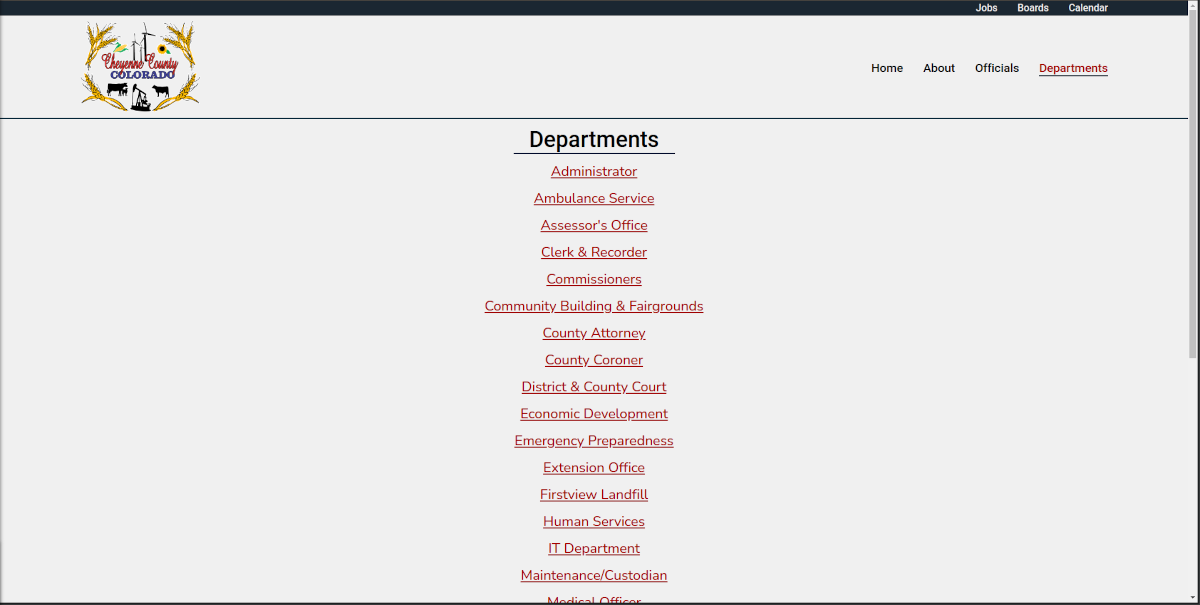
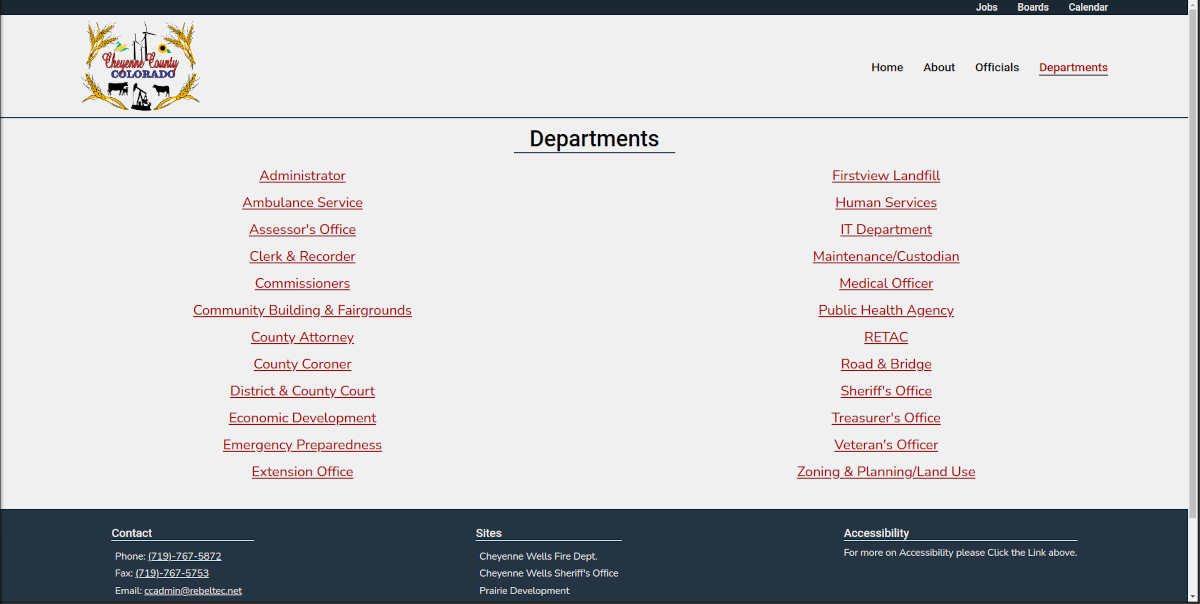
fix: departments layout and departments page screenshot

diff --git a/cheyenne_county_website/css/base.css b/cheyenne_county_website/css/base.css
@@ -1,1 +1,1 @@
-@font-face{font-family:Roboto;font-style:normal;font-weight:100;src:url(/assets/fonts/roboto-v30-latin-100.woff2) format('woff2')}@font-face{font-family:Roboto;font-style:italic;font-weight:100;src:url(/assets/fonts/roboto-v30-latin-100italic.woff2) format('woff2')}@font-face{font-family:Roboto;font-style:normal;font-weight:300;src:url(/assets/fonts/roboto-v30-latin-300.woff2) format('woff2')}@font-face{font-family:Roboto;font-style:italic;font-weight:300;src:url(/assets/fonts/roboto-v30-latin-300italic.woff2) format('woff2')}@font-face{font-family:Roboto;font-style:normal;font-weight:400;src:url(/assets/fonts/roboto-v30-latin-regular.woff2) format('woff2')}@font-face{font-family:Roboto;font-style:italic;font-weight:400;src:url(/assets/fonts/roboto-v30-latin-italic.woff2) format('woff2')}@font-face{font-family:Roboto;font-style:normal;font-weight:500;src:url(/assets/fonts/roboto-v30-latin-500.woff2) format('woff2')}@font-face{font-family:Roboto;font-style:italic;font-weight:500;src:url(/assets/fonts/roboto-v30-latin-500italic.woff2) format('woff2')}@font-face{font-family:Roboto;font-style:normal;font-weight:700;src:url(/assets/fonts/roboto-v30-latin-700.woff2) format('woff2')}@font-face{font-family:Roboto;font-style:italic;font-weight:700;src:url(/assets/fonts/roboto-v30-latin-700italic.woff2) format('woff2')}@font-face{font-family:Roboto;font-style:normal;font-weight:900;src:url(/assets/fonts/roboto-v30-latin-900.woff2) format('woff2')}@font-face{font-family:Roboto;font-style:italic;font-weight:900;src:url(/assets/fonts/roboto-v30-latin-900italic.woff2) format('woff2')}@font-face{font-family:Nunito;font-style:normal;font-weight:200;src:url(/assets/fonts/nunito-v26-latin-200.woff2) format('woff2')}@font-face{font-family:Nunito;font-style:italic;font-weight:200;src:url(/assets/fonts/nunito-v26-latin-200italic.woff2) format('woff2')}@font-face{font-family:Nunito;font-style:normal;font-weight:300;src:url(/assets/fonts/nunito-v26-latin-300.woff2) format('woff2')}@font-face{font-family:Nunito;font-style:italic;font-weight:300;src:url(/assets/fonts/nunito-v26-latin-300italic.woff2) format('woff2')}@font-face{font-family:Nunito;font-style:normal;font-weight:400;src:url(/assets/fonts/nunito-v26-latin-regular.woff2) format('woff2')}@font-face{font-family:Nunito;font-style:italic;font-weight:400;src:url(/assets/fonts/nunito-v26-latin-italic.woff2) format('woff2')}@font-face{font-family:Nunito;font-style:normal;font-weight:500;src:url(/assets/fonts/nunito-v26-latin-500.woff2) format('woff2')}@font-face{font-family:Nunito;font-style:italic;font-weight:500;src:url(/assets/fonts/nunito-v26-latin-500italic.woff2) format('woff2')}@font-face{font-family:Nunito;font-style:normal;font-weight:600;src:url(/assets/fonts/nunito-v26-latin-600.woff2) format('woff2')}@font-face{font-family:Nunito;font-style:italic;font-weight:600;src:url(/assets/fonts/nunito-v26-latin-600italic.woff2) format('woff2')}@font-face{font-family:Nunito;font-style:normal;font-weight:700;src:url(/assets/fonts/nunito-v26-latin-700.woff2) format('woff2')}@font-face{font-family:Nunito;font-style:italic;font-weight:700;src:url(/assets/fonts/nunito-v26-latin-700italic.woff2) format('woff2')}@font-face{font-family:Nunito;font-style:normal;font-weight:800;src:url(/assets/fonts/nunito-v26-latin-800.woff2) format('woff2')}@font-face{font-family:Nunito;font-style:italic;font-weight:800;src:url(/assets/fonts/nunito-v26-latin-800italic.woff2) format('woff2')}@font-face{font-family:Nunito;font-style:normal;font-weight:900;src:url(/assets/fonts/nunito-v26-latin-900.woff2) format('woff2')}@font-face{font-family:Nunito;font-style:italic;font-weight:900;src:url(/assets/fonts/nunito-v26-latin-900italic.woff2) format('woff2')}:root{--background-color:hsl(0 0% 94%);--border-color:hsl(209 30% 20%);--border-alt-color:hsl(209 30% 15%);--link-color:hsl(0 100% 32%);--link-hover-color:hsl(0 100% 22%);--text-color:hsl(210 29% 3%)}*{box-sizing:border-box;font-family:Nunito,sans-serif;letter-spacing:-.01rem;margin:0;padding:0;scroll-behavior:smooth;text-wrap:balance}li{list-style:none}body{background-color:var(--background-color)}body a{color:var(--link-color);transition:color .1s ease-in-out}body a:focus,body a:hover{color:var(--link-hover-color)}.border{border:1px solid var(--border-color)}h1,h2,h3,h4,h5,h6{font-family:Roboto,sans-serif;font-weight:500}h1:after{border:1px solid var(--border-color);content:"";display:block;margin:auto;margin-bottom:.5rem}h2:after,h2:before{border-top:2px solid var(--border-color);content:"";display:inline-block;margin:0 1rem;width:1.25rem}h2:after,h2:before{transform:translateY(-.5rem)}.top-nav{background-color:var(--border-alt-color);display:flex;gap:2rem;justify-content:flex-end;padding:.15rem 8rem .15rem;user-select:none}.top-nav a{color:var(--background-color);font-family:Roboto,sans-serif;font-weight:500;text-decoration:none}.top-nav a:focus,.top-nav a:hover{color:var(--background-color);text-decoration:underline}.top-nav .active{text-decoration:underline}.logo img{height:auto;max-width:12rem;user-select:none}.main-nav{align-items:center;display:flex;font-size:1.2rem;justify-content:space-between;padding:.5rem 8rem .15rem;user-select:none}.main-nav-links{display:flex;gap:2rem}.main-nav-links a{color:var(--text-color);font-family:Roboto,sans-serif;font-weight:500;transition:color .1s ease-in-out;text-decoration:none}.main-nav-links .active,.main-nav-links .active:hover,.main-nav-links a:focus,.main-nav-links a:hover{color:var(--link-color)}.main-nav-links a:hover::after{border:1px solid var(--border-color);content:"";display:block}.main-nav-links .active:after{border:1px solid var(--border-color);content:"";display:block}.initial-content{font-size:1.2rem;padding:.75rem 1rem;text-align:center}h1{font-size:2.25rem}.initial-content h2{padding-top:1rem}.initial-content ul{padding-bottom:1.25rem}.initial-content li{margin:.1rem}.initial-content a:focus,.initial-content a:hover{text-decoration:none}.bulleted-list li{margin-bottom:.5rem}.departments-nav{display:flex;justify-content:space-between;padding-top:.35rem}#top-btn{animation:button-fade .1s ease-in-out;background-color:transparent;border:none;bottom:2rem;color:var(--text-color);cursor:pointer;display:none;font-size:1.75rem;right:1%;position:fixed;transition:color .1s ease-in-out;user-select:none;z-index:99}#top-btn:focus,#top-btn:hover{color:var(--link-color);font-size:1.85rem}@keyframes button-fade{from{opacity:0}to{opacity:1}}footer{background-color:var(--border-color);user-select:none}footer a{color:var(--background-color);text-decoration:none}footer a:focus,footer a:hover{color:var(--background-color);text-decoration:underline}footer .active{text-decoration:underline}.footer-content{color:var(--background-color);display:flex;padding-top:1.75rem;padding-bottom:1.75rem}.footer-link{margin:0 auto}.footer-link li{margin:.35rem}.footer-link p,.footer-link ul{padding-top:.5rem}.footer-link h3{border-bottom:1px solid var(--background-color)}.contact a{text-decoration:underline}.contact a:focus,.contact a:hover{text-decoration:none}.footer-copyright{background-color:var(--border-alt-color);color:var(--background-color);display:flex;justify-content:space-between;padding:.25rem 1.25rem .25rem}.footer-copyright a{text-decoration:underline}.footer-copyright a:focus,.footer-copyright a:hover{text-decoration:none}@media screen and (max-width:860px){.main-nav,.top-nav{padding:.15rem 2rem .15rem}.footer-content{display:block;text-align:center}.footer-content li:last-child{padding-bottom:2rem}.footer-link h3{border:none}}@media screen and (max-width:730px){#top-btn{bottom:3rem}.main-nav{display:block;text-align:center;padding:1rem}.main-nav-links{justify-content:center;padding:.1rem}.top-nav{justify-content:space-evenly;padding:.25rem}.footer-copyright{display:block;text-align:center}}@media screen and (max-width:380px){.main-nav-links{flex-wrap:wrap}}
+@font-face{font-family:Roboto;font-style:normal;font-weight:100;src:url(/assets/fonts/roboto-v30-latin-100.woff2) format('woff2')}@font-face{font-family:Roboto;font-style:italic;font-weight:100;src:url(/assets/fonts/roboto-v30-latin-100italic.woff2) format('woff2')}@font-face{font-family:Roboto;font-style:normal;font-weight:300;src:url(/assets/fonts/roboto-v30-latin-300.woff2) format('woff2')}@font-face{font-family:Roboto;font-style:italic;font-weight:300;src:url(/assets/fonts/roboto-v30-latin-300italic.woff2) format('woff2')}@font-face{font-family:Roboto;font-style:normal;font-weight:400;src:url(/assets/fonts/roboto-v30-latin-regular.woff2) format('woff2')}@font-face{font-family:Roboto;font-style:italic;font-weight:400;src:url(/assets/fonts/roboto-v30-latin-italic.woff2) format('woff2')}@font-face{font-family:Roboto;font-style:normal;font-weight:500;src:url(/assets/fonts/roboto-v30-latin-500.woff2) format('woff2')}@font-face{font-family:Roboto;font-style:italic;font-weight:500;src:url(/assets/fonts/roboto-v30-latin-500italic.woff2) format('woff2')}@font-face{font-family:Roboto;font-style:normal;font-weight:700;src:url(/assets/fonts/roboto-v30-latin-700.woff2) format('woff2')}@font-face{font-family:Roboto;font-style:italic;font-weight:700;src:url(/assets/fonts/roboto-v30-latin-700italic.woff2) format('woff2')}@font-face{font-family:Roboto;font-style:normal;font-weight:900;src:url(/assets/fonts/roboto-v30-latin-900.woff2) format('woff2')}@font-face{font-family:Roboto;font-style:italic;font-weight:900;src:url(/assets/fonts/roboto-v30-latin-900italic.woff2) format('woff2')}@font-face{font-family:Nunito;font-style:normal;font-weight:200;src:url(/assets/fonts/nunito-v26-latin-200.woff2) format('woff2')}@font-face{font-family:Nunito;font-style:italic;font-weight:200;src:url(/assets/fonts/nunito-v26-latin-200italic.woff2) format('woff2')}@font-face{font-family:Nunito;font-style:normal;font-weight:300;src:url(/assets/fonts/nunito-v26-latin-300.woff2) format('woff2')}@font-face{font-family:Nunito;font-style:italic;font-weight:300;src:url(/assets/fonts/nunito-v26-latin-300italic.woff2) format('woff2')}@font-face{font-family:Nunito;font-style:normal;font-weight:400;src:url(/assets/fonts/nunito-v26-latin-regular.woff2) format('woff2')}@font-face{font-family:Nunito;font-style:italic;font-weight:400;src:url(/assets/fonts/nunito-v26-latin-italic.woff2) format('woff2')}@font-face{font-family:Nunito;font-style:normal;font-weight:500;src:url(/assets/fonts/nunito-v26-latin-500.woff2) format('woff2')}@font-face{font-family:Nunito;font-style:italic;font-weight:500;src:url(/assets/fonts/nunito-v26-latin-500italic.woff2) format('woff2')}@font-face{font-family:Nunito;font-style:normal;font-weight:600;src:url(/assets/fonts/nunito-v26-latin-600.woff2) format('woff2')}@font-face{font-family:Nunito;font-style:italic;font-weight:600;src:url(/assets/fonts/nunito-v26-latin-600italic.woff2) format('woff2')}@font-face{font-family:Nunito;font-style:normal;font-weight:700;src:url(/assets/fonts/nunito-v26-latin-700.woff2) format('woff2')}@font-face{font-family:Nunito;font-style:italic;font-weight:700;src:url(/assets/fonts/nunito-v26-latin-700italic.woff2) format('woff2')}@font-face{font-family:Nunito;font-style:normal;font-weight:800;src:url(/assets/fonts/nunito-v26-latin-800.woff2) format('woff2')}@font-face{font-family:Nunito;font-style:italic;font-weight:800;src:url(/assets/fonts/nunito-v26-latin-800italic.woff2) format('woff2')}@font-face{font-family:Nunito;font-style:normal;font-weight:900;src:url(/assets/fonts/nunito-v26-latin-900.woff2) format('woff2')}@font-face{font-family:Nunito;font-style:italic;font-weight:900;src:url(/assets/fonts/nunito-v26-latin-900italic.woff2) format('woff2')}:root{--background-color:hsl(0 0% 94%);--border-color:hsl(209 30% 20%);--border-alt-color:hsl(209 30% 15%);--link-color:hsl(0 100% 32%);--link-hover-color:hsl(0 100% 22%);--text-color:hsl(210 29% 3%)}*{box-sizing:border-box;font-family:Nunito,sans-serif;letter-spacing:-.01rem;margin:0;padding:0;scroll-behavior:smooth;text-wrap:balance}li{list-style:none}body{background-color:var(--background-color)}body a{color:var(--link-color);transition:color .1s ease-in-out}body a:focus,body a:hover{color:var(--link-hover-color)}.border{border:1px solid var(--border-color)}h1,h2,h3,h4,h5,h6{font-family:Roboto,sans-serif;font-weight:500}h1:after{border:1px solid var(--border-color);content:"";display:block;margin:auto;margin-bottom:.5rem}h2:after,h2:before{border-top:2px solid var(--border-color);content:"";display:inline-block;margin:0 1rem;width:1.25rem}h2:after,h2:before{transform:translateY(-.5rem)}.top-nav{background-color:var(--border-alt-color);display:flex;gap:2rem;justify-content:flex-end;padding:.15rem 8rem .15rem;user-select:none}.top-nav a{color:var(--background-color);font-family:Roboto,sans-serif;font-weight:500;text-decoration:none}.top-nav a:focus,.top-nav a:hover{color:var(--background-color);text-decoration:underline}.top-nav .active{text-decoration:underline}.logo img{height:auto;max-width:12rem;user-select:none}.main-nav{align-items:center;display:flex;font-size:1.2rem;justify-content:space-between;padding:.5rem 8rem .15rem;user-select:none}.main-nav-links{display:flex;gap:2rem}.main-nav-links a{color:var(--text-color);font-family:Roboto,sans-serif;font-weight:500;transition:color .1s ease-in-out;text-decoration:none}.main-nav-links .active,.main-nav-links .active:hover,.main-nav-links a:focus,.main-nav-links a:hover{color:var(--link-color)}.main-nav-links a:hover::after{border:1px solid var(--border-color);content:"";display:block}.main-nav-links .active:after{border:1px solid var(--border-color);content:"";display:block}.initial-content{font-size:1.2rem;padding:.75rem 1rem;text-align:center}h1{font-size:2.25rem}.initial-content h2{padding-top:1rem}.initial-content ul{padding-bottom:1.25rem}.initial-content li{margin:.1rem}.initial-content a:focus,.initial-content a:hover{text-decoration:none}.bulleted-list li{margin-bottom:.5rem}.grid{display:grid;grid-template-columns:1fr 1fr}.departments-nav{display:flex;justify-content:space-between;padding-top:.35rem}#top-btn{animation:button-fade .1s ease-in-out;background-color:transparent;border:none;bottom:2rem;color:var(--text-color);cursor:pointer;display:none;font-size:1.75rem;right:1%;position:fixed;transition:color .1s ease-in-out;user-select:none;z-index:99}#top-btn:focus,#top-btn:hover{color:var(--link-color);font-size:1.85rem}@keyframes button-fade{from{opacity:0}to{opacity:1}}footer{background-color:var(--border-color);user-select:none}footer a{color:var(--background-color);text-decoration:none}footer a:focus,footer a:hover{color:var(--background-color);text-decoration:underline}footer .active{text-decoration:underline}.footer-content{color:var(--background-color);display:flex;padding-top:1.75rem;padding-bottom:1.75rem}.footer-link{margin:0 auto}.footer-link li{margin:.35rem}.footer-link p,.footer-link ul{padding-top:.5rem}.footer-link h3{border-bottom:1px solid var(--background-color)}.contact a{text-decoration:underline}.contact a:focus,.contact a:hover{text-decoration:none}.footer-copyright{background-color:var(--border-alt-color);color:var(--background-color);display:flex;justify-content:space-between;padding:.25rem 1.25rem .25rem}.footer-copyright a{text-decoration:underline}.footer-copyright a:focus,.footer-copyright a:hover{text-decoration:none}@media screen and (max-width:860px){.main-nav,.top-nav{padding:.15rem 2rem .15rem}.footer-content{display:block;text-align:center}.footer-content li:last-child{padding-bottom:2rem}.footer-link h3{border:none}}@media screen and (max-width:730px){#top-btn{bottom:3rem}.main-nav{display:block;text-align:center;padding:1rem}.main-nav-links{justify-content:center;padding:.1rem}.top-nav{justify-content:space-evenly;padding:.25rem}.footer-copyright{display:block;text-align:center}}@media screen and (max-width:380px){.main-nav-links{flex-wrap:wrap}.grid{grid-template-columns:1fr}}

diff --git a/cheyenne_county_website/departments.html b/cheyenne_county_website/departments.html
@@ -57,81 +57,90 @@
             <h1>Departments</h1>
         </header>
 
-        <ul>
-            <li>
-                <h3><a href="/departments/administrator.html">Administrator</a></h3>
-            </li>
-            <li>
-                <h3><a href="/departments/ambulance_service.html">Ambulance Service</a></h3>
-            </li>
-            <li>
-                <h3><a href="/departments/assessor.html">Assessor's Office</a></h3>
-            </li>
-            <li>
-                <h3><a href="/departments/clerk_recorder.html">Clerk &amp; Recorder</a></h3>
-            </li>
-            <li>
-                <h3><a href="/departments/commissioners.html">Commissioners</a></h3>
-            </li>
-            <li>
-                <h3><a href="/departments/community_fairgrounds.html
+        <div class="grid">
+            <div class="grid-child">
+                <ul>
+                    <li>
+                        <h3><a href="/departments/administrator.html">Administrator</a></h3>
+                    </li>
+                    <li>
+                        <h3><a href="/departments/ambulance_service.html">Ambulance Service</a></h3>
+                    </li>
+                    <li>
+                        <h3><a href="/departments/assessor.html">Assessor's Office</a></h3>
+                    </li>
+                    <li>
+                        <h3><a href="/departments/clerk_recorder.html">Clerk &amp; Recorder</a></h3>
+                    </li>
+                    <li>
+                        <h3><a href="/departments/commissioners.html">Commissioners</a></h3>
+                    </li>
+                    <li>
+                        <h3><a href="/departments/community_fairgrounds.html
             ">Community Building &amp; Fairgrounds</a></h3>
-            </li>
-            <li>
-                <h3><a href="/departments/attorney.html">County Attorney</a></h3>
-            </li>
-            <li>
-                <h3><a href="/departments/coroner.html">County Coroner</a></h3>
-            </li>
-            <li>
-                <h3><a href="/departments/court.html">District &amp; County Court</a></h3>
-            </li>
-            <li>
-                <h3><a href="/departments/economic_development.html">Economic Development</a></h3>
-            </li>
-            <li>
-                <h3><a href="/departments/emergency_preparedness.html">Emergency Preparedness</a></h3>
-            </li>
-            <li>
-                <h3><a href="/departments/extension.html">Extension Office</a></h3>
-            </li>
-            <li>
-                <h3><a href="/departments/landfill.html">Firstview Landfill</a></h3>
-            </li>
-            <li>
-                <h3><a href="/departments/human_services.html">Human Services</a></h3>
-            </li>
-            <li>
-                <h3><a href="/departments/it_department.html">IT Department</a></h3>
-            </li>
-            <li>
-                <h3><a href="/departments/maintenance.html">Maintenance/Custodian</a></h3>
-            </li>
-            <li>
-                <h3><a href="/departments/medical_officer.html">Medical Officer</a></h3>
-            </li>
-            <li>
-                <h3><a href="/departments/public_health.html">Public Health Agency</a></h3>
-            </li>
-            <li>
-                <h3><a href="/departments/retac.html">RETAC</a></h3>
-            </li>
-            <li>
-                <h3><a href="/departments/road_bridge.html">Road &amp; Bridge</a></h3>
-            </li>
-            <li>
-                <h3><a href="/departments/sheriff.html">Sheriff's Office</a></h3>
-            </li>
-            <li>
-                <h3><a href="/departments/treasurer.html">Treasurer's Office</a></h3>
-            </li>
-            <li>
-                <h3><a href="/departments/veterans_officer.html">Veteran's Officer</a></h3>
-            </li>
-            <li>
-                <h3><a href="/departments/zoning_planning.html">Zoning & Planning/Land Use</a></h3>
-            </li>
-        </ul>
+                    </li>
+                    <li>
+                        <h3><a href="/departments/attorney.html">County Attorney</a></h3>
+                    </li>
+                    <li>
+                        <h3><a href="/departments/coroner.html">County Coroner</a></h3>
+                    </li>
+                    <li>
+                        <h3><a href="/departments/court.html">District &amp; County Court</a></h3>
+                    </li>
+                    <li>
+                        <h3><a href="/departments/economic_development.html">Economic Development</a></h3>
+                    </li>
+                    <li>
+                        <h3><a href="/departments/emergency_preparedness.html">Emergency Preparedness</a></h3>
+                    </li>
+                    <li>
+                        <h3><a href="/departments/extension.html">Extension Office</a></h3>
+                    </li>
+                </ul>
+            </div>
+
+            <div class="grid-child">
+                <ul>
+                    <li>
+                        <h3><a href="/departments/landfill.html">Firstview Landfill</a></h3>
+                    </li>
+                    <li>
+                        <h3><a href="/departments/human_services.html">Human Services</a></h3>
+                    </li>
+                    <li>
+                        <h3><a href="/departments/it_department.html">IT Department</a></h3>
+                    </li>
+                    <li>
+                        <h3><a href="/departments/maintenance.html">Maintenance/Custodian</a></h3>
+                    </li>
+                    <li>
+                        <h3><a href="/departments/medical_officer.html">Medical Officer</a></h3>
+                    </li>
+                    <li>
+                        <h3><a href="/departments/public_health.html">Public Health Agency</a></h3>
+                    </li>
+                    <li>
+                        <h3><a href="/departments/retac.html">RETAC</a></h3>
+                    </li>
+                    <li>
+                        <h3><a href="/departments/road_bridge.html">Road &amp; Bridge</a></h3>
+                    </li>
+                    <li>
+                        <h3><a href="/departments/sheriff.html">Sheriff's Office</a></h3>
+                    </li>
+                    <li>
+                        <h3><a href="/departments/treasurer.html">Treasurer's Office</a></h3>
+                    </li>
+                    <li>
+                        <h3><a href="/departments/veterans_officer.html">Veteran's Officer</a></h3>
+                    </li>
+                    <li>
+                        <h3><a href="/departments/zoning_planning.html">Zoning & Planning/Land Use</a></h3>
+                    </li>
+                </ul>
+            </div>
+        </div>
     </section>
     <!-- Departments end -->
 
